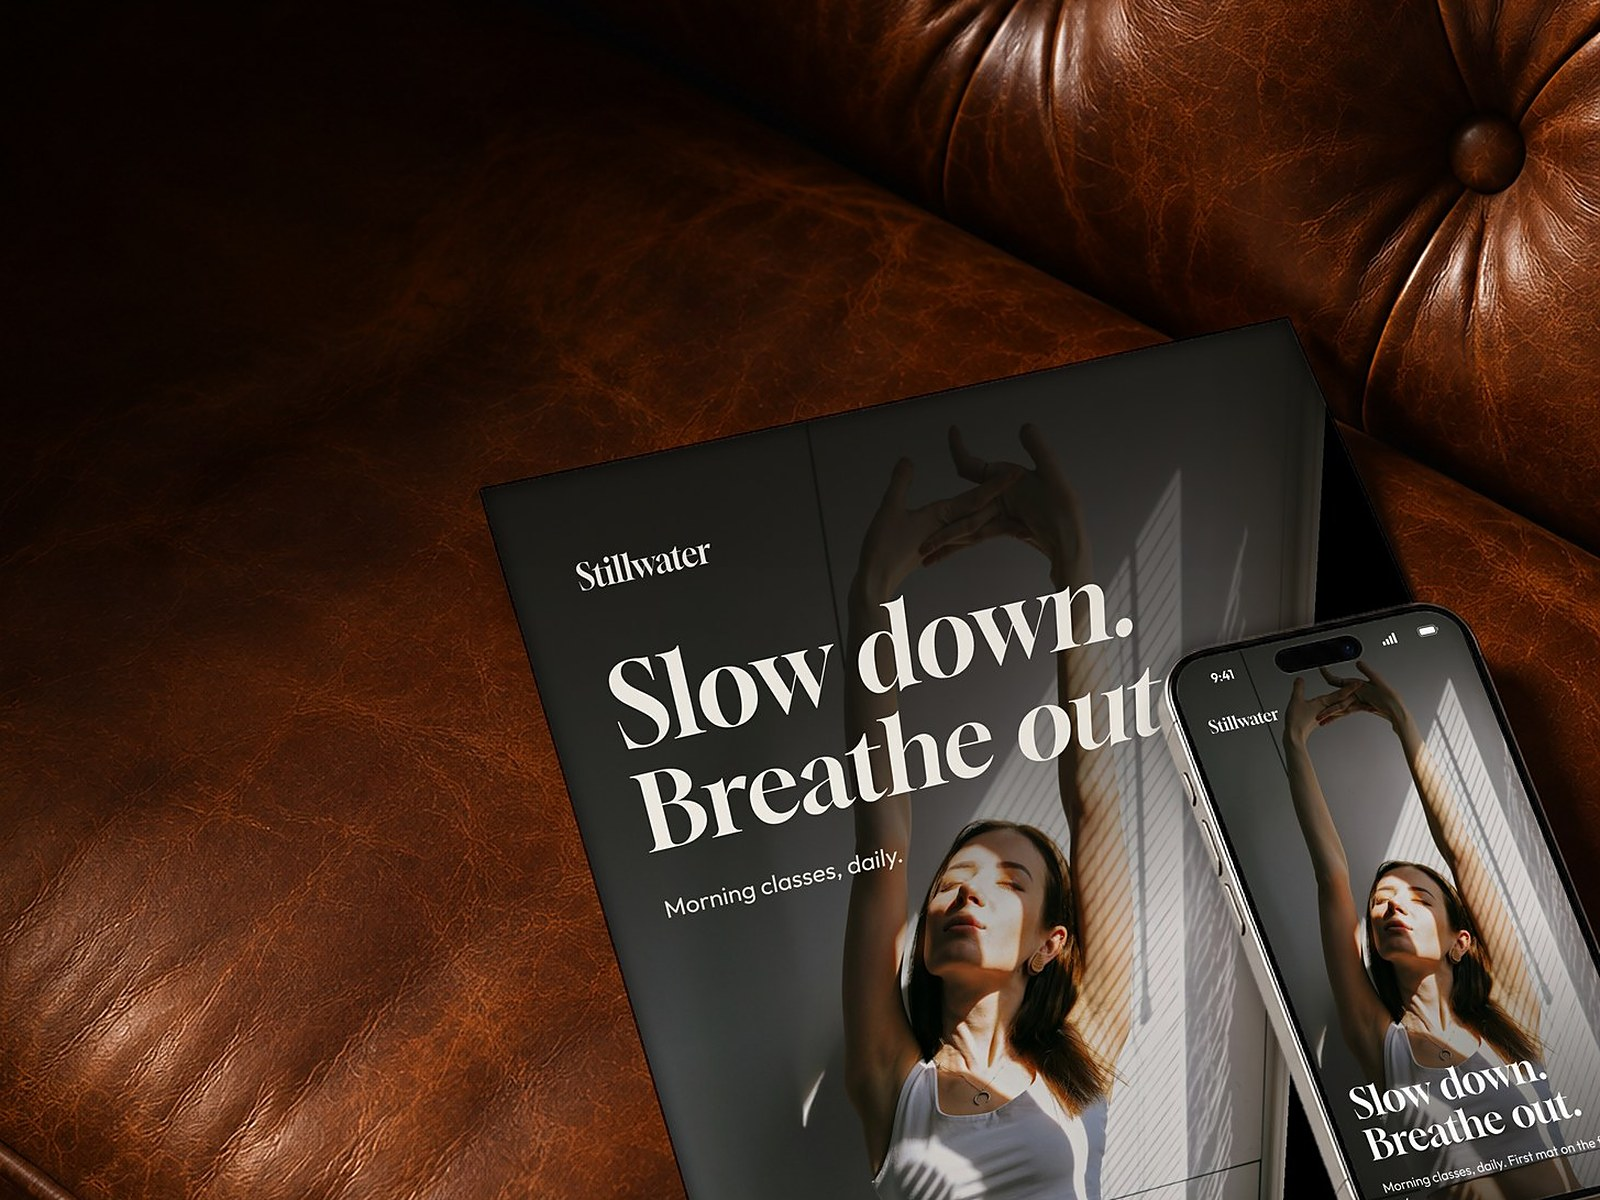
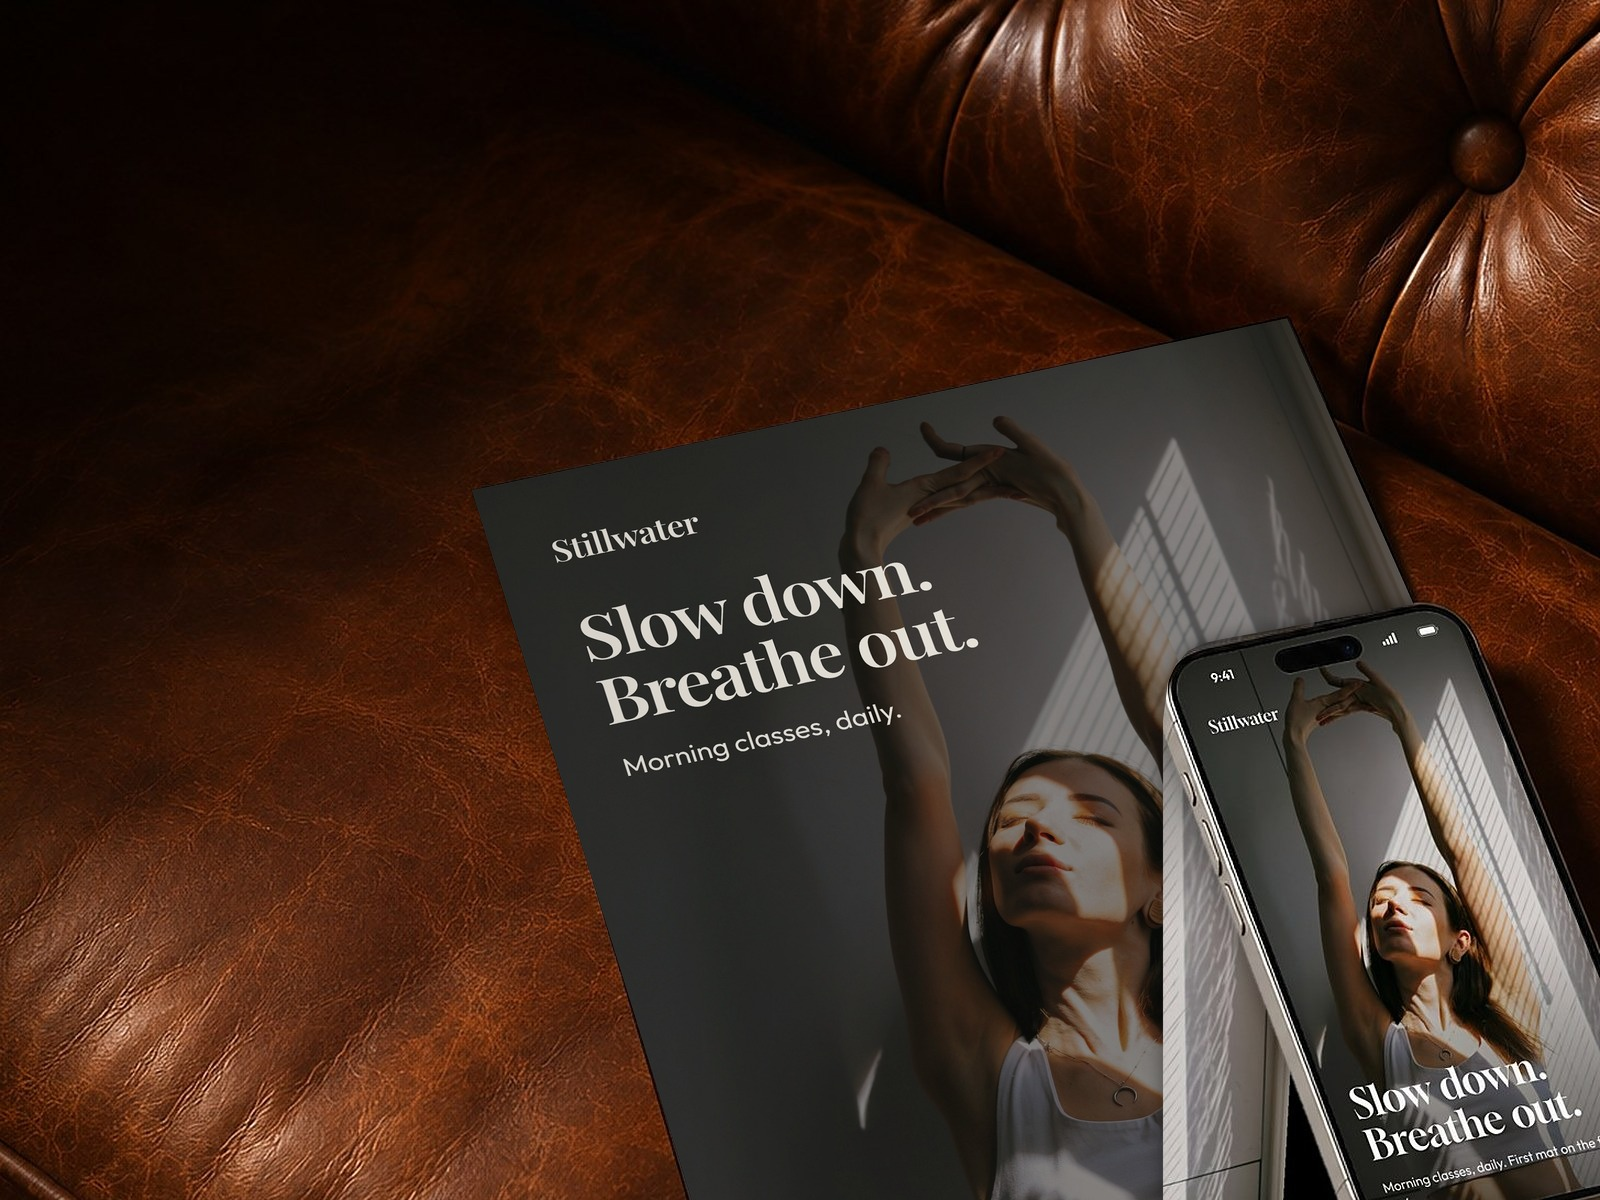
Fix Creative Subscription home card: full-bleed poster, no seam, headline clear of phone
Claude-Session: https://claude.ai/code/session_011BdSE2fEeiEv9ZgoYmWAPn

diff --git a/design/tiles/py/creative-card-fix.py b/design/tiles/py/creative-card-fix.py
@@ -1,0 +1,26 @@
+import sys; sys.path.insert(0,'/home/user/Opsiogen/design/tiles/py')
+import numpy as np
+from PIL import Image, ImageDraw, ImageFilter
+from comp import coeffs
+card=Image.open(sys.argv[1]).convert('RGB')
+W,H=card.size; ss=2
+poster=Image.open('design/tiles/out/figma-cs/sw-poster.png').convert('RGB'); pw,ph=poster.size
+q=[(471.5,490),(1287,318),(1764,1395),(820.5,1615)]
+w=poster.transform((W*ss,H*ss),Image.PERSPECTIVE,coeffs([(x*ss,y*ss) for x,y in q],[(0,0),(pw,0),(pw,ph),(0,ph)]),Image.BICUBIC).resize((W,H),Image.LANCZOS)
+S=4
+def poly_mask(pts):
+    m=Image.new('L',(W*S,H*S),0); ImageDraw.Draw(m).polygon([(x*S,y*S) for x,y in pts],fill=255); return m.resize((W,H),Image.LANCZOS)
+quad=poly_mask(q)
+# phone outline traced along the real bezel
+phone=[(1163,720),(1168,682),(1176,664),(1188,651),(1204,643),(1222,639),(1410,605),(1428,602.5),(1445,603),(1460,609),(1474,621),(1490,640),(1600,800),(1600,1200),(1350,1200),(1163,1200)]
+pm=poly_mask(phone)
+m=np.array(quad,float)/255*(1-np.array(pm,float)/255)
+a=np.array(w,float)
+xx=np.arange(W)[None,:]; light=0.86+0.14*np.clip((xx-470)/900,0,1)
+a*=light[...,None]
+# soft contact shadow from the phone onto the poster
+sh=np.array(pm.filter(ImageFilter.GaussianBlur(9)),float)/255
+a*=(1-0.45*sh)[...,None]
+base=np.array(card,float)
+out=base*(1-m[...,None])+a*m[...,None]
+Image.fromarray(np.clip(out,0,255).astype('uint8')).save('design/tiles/out/figma-cs/card.jpg',quality=92)
